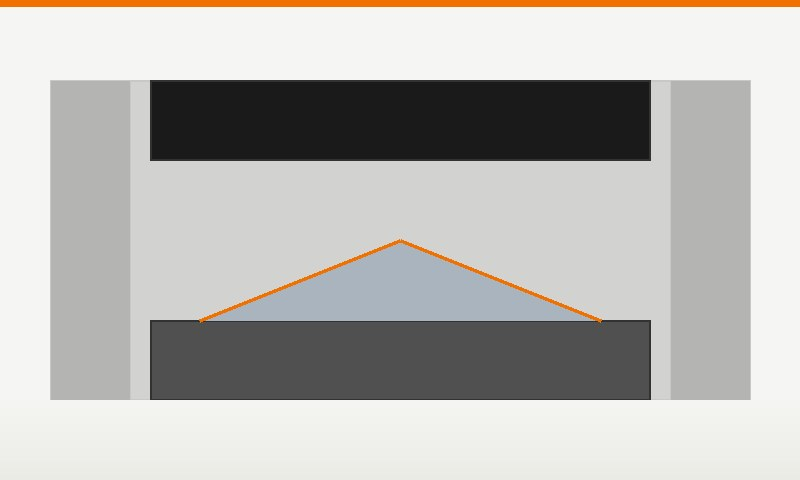
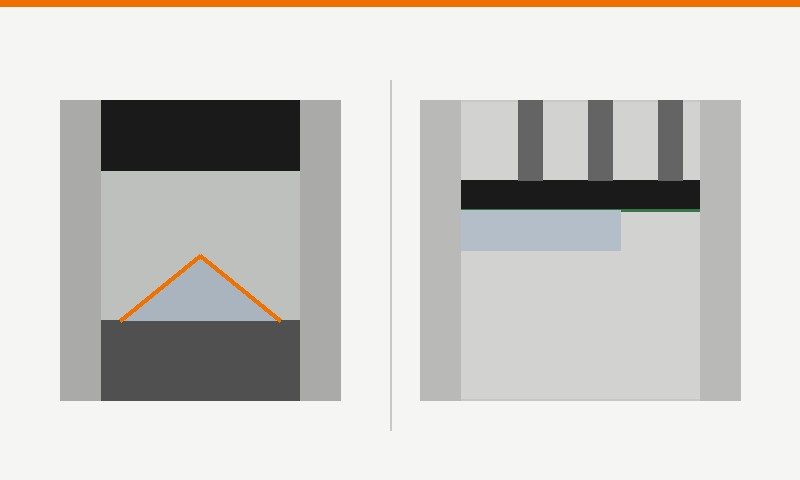
Catalogo: 8 nuove categorie con illustrazioni aggiornate

diff --git a/index.html b/index.html
@@ -204,11 +204,11 @@
           </div>
           <div class="product-card-body">
           <h3>Presse Piegatrici e Cesoie</h3>
-          <p>Presse piegatrici idrauliche CNC e tradizionali per la piegatura della lamiera con precisione e ripetibilità, adatte a officine e carpenterie di ogni dimensione.</p>
+          <p>Presse piegatrici idrauliche CNC e tradizionali per la piegatura della lamiera, cesoie a ghigliottina e universali per il taglio preciso di acciaio, inox e alluminio.</p>
           <ul>
             <li>Presse piegatrici CNC</li>
+            <li>Cesoie a ghigliottina idrauliche</li>
             <li>Pannellatrici</li>
-            <li>Piegatrici universali</li>
           </ul>
           <a href="#contatti" class="product-link">Richiedi informazioni <i class="fa-solid fa-arrow-right"></i></a>
           </div>
@@ -216,15 +216,15 @@
 
         <div class="product-card" data-aos="fade-up" data-aos-delay="100">
           <div class="product-img-wrap">
-            <img src="img/prodotti/cesoia.jpg" alt="Cesoie per Lamiera" />
+            <img src="img/prodotti/saldatura-robot.jpg" alt="Impianti di saldatura manuali e robotizzati" />
           </div>
           <div class="product-card-body">
-          <h3>Cesoie per Lamiera</h3>
-          <p>Cesoie a ghigliottina idrauliche e cesoie universali idrauliche per il taglio preciso di lamiere in acciaio, inox e alluminio. Nuovi modelli anche CNC.</p>
+          <h3>Impianti di saldatura manuali e robotizzati</h3>
+          <p>Sistemi di saldatura MIG/MAG, TIG e plasma, tavoli di saldatura modulari e isole robotizzate per la saldatura automatizzata in produzione.</p>
           <ul>
-            <li>Cesoie a ghigliottina idrauliche</li>
-            <li>Cesoie universali idrauliche</li>
-            <li>Segatrici a nastro e circolari</li>
+            <li>Saldatrici MIG/MAG/TIG</li>
+            <li>Tavoli e posizionatori</li>
+            <li>Celle robotizzate di saldatura</li>
           </ul>
           <a href="#contatti" class="product-link">Richiedi informazioni <i class="fa-solid fa-arrow-right"></i></a>
           </div>
@@ -232,15 +232,15 @@
 
         <div class="product-card" data-aos="fade-up" data-aos-delay="150">
           <div class="product-img-wrap">
-            <img src="img/prodotti/curvatubi.jpg" alt="Curvatubi & Curvaprofile" />
+            <img src="img/prodotti/curvatrice.jpg" alt="Macchine curvatrici" />
           </div>
           <div class="product-card-body">
-          <h3>Curvatubi &amp; Curvaprofile</h3>
-          <p>Macchine per la curvatura e deformazione di tubi, barre e profili metallici. Rivenditore autorizzato Ercolina®, il marchio Made in Italy leader mondiale nel settore dal 1973.</p>
+          <h3>Macchine curvatrici: Calandra per lamiera e Profilati</h3>
+          <p>Calandre a 3 e 4 rulli per la formatura di lamiere in cilindri e coni, e profilatrici per la curvatura di profili, tubi e barre metalliche.</p>
           <ul>
-            <li>Curvatubi CNC</li>
-            <li>Curvaprofile a rulli</li>
-            <li>Arrotondatrici</li>
+            <li>Calandre a 3 e 4 rulli CNC</li>
+            <li>Curvaprofile e arrotondatrici</li>
+            <li>Curvatubi (Ercolina®)</li>
           </ul>
           <a href="#contatti" class="product-link">Richiedi informazioni <i class="fa-solid fa-arrow-right"></i></a>
           </div>
@@ -248,15 +248,15 @@
 
         <div class="product-card" data-aos="fade-up" data-aos-delay="200">
           <div class="product-img-wrap">
-            <img src="img/prodotti/punzonatrice.jpg" alt="Tranciatrici & Punzonatrici" />
+            <img src="img/prodotti/punzonatrice.jpg" alt="Punzonatrici e Tranciatrici" />
           </div>
           <div class="product-card-body">
-          <h3>Tranciatrici &amp; Punzonatrici</h3>
-          <p>Tranciatrici, punzonatrici idrauliche e combinate punzone-cesoia per la realizzazione di fori, intagli e sagome su lamiera piana.</p>
+          <h3>Punzonatrici e Tranciatrici</h3>
+          <p>Punzonatrici idrauliche e combinate punzone-cesoia per la realizzazione di fori, intagli e sagome su lamiera piana, con soluzioni manuali e a controllo CNC.</p>
           <ul>
-            <li>Punzonatrici idrauliche</li>
+            <li>Punzonatrici idrauliche CNC</li>
             <li>Combinate punch-shear</li>
-            <li>Centri CNC</li>
+            <li>Tranciatrici a lama</li>
           </ul>
           <a href="#contatti" class="product-link">Richiedi informazioni <i class="fa-solid fa-arrow-right"></i></a>
           </div>
@@ -264,15 +264,15 @@
 
         <div class="product-card" data-aos="fade-up" data-aos-delay="250">
           <div class="product-img-wrap">
-            <img src="img/prodotti/saldatura.jpg" alt="Saldatrici & Taglio" />
+            <img src="img/prodotti/taglio-termico.jpg" alt="Macchine a taglio termico" />
           </div>
           <div class="product-card-body">
-          <h3>Saldatrici &amp; Taglio</h3>
-          <p>Sistemi di saldatura MIG/MAG, TIG, plasma e laser. Tavoli di saldatura, posizionatori e automazioni per la saldatura.</p>
+          <h3>Macchine a taglio termico: Laser, Plasma e Ossitaglio</h3>
+          <p>Sistemi di taglio termico per lamiere e profilati metallici: taglio laser in fibra ad alta velocità, plasma CNC e ossitaglio per spessori elevati.</p>
           <ul>
-            <li>Saldatrici MIG/MAG/TIG</li>
-            <li>Taglio plasma e laser</li>
-            <li>Posizionatori</li>
+            <li>Taglio laser in fibra CNC</li>
+            <li>Taglio plasma CNC</li>
+            <li>Ossitaglio automatico</li>
           </ul>
           <a href="#contatti" class="product-link">Richiedi informazioni <i class="fa-solid fa-arrow-right"></i></a>
           </div>
@@ -280,15 +280,15 @@
 
         <div class="product-card" data-aos="fade-up" data-aos-delay="300">
           <div class="product-img-wrap">
-            <img src="img/prodotti/calandra.jpg" alt="Calandre" />
+            <img src="img/prodotti/isole-robotizzate.jpg" alt="Isole robotizzate" />
           </div>
           <div class="product-card-body">
-          <h3>Calandre</h3>
-          <p>Calandre a 3 e 4 rulli per la formatura di cilindri, coni e forme curve su lamiera, tubi e profili. Modelli manuali, idraulici e CNC.</p>
+          <h3>Isole robotizzate</h3>
+          <p>Celle di lavoro automatizzate con robot industriali per saldatura, manipolazione, assemblaggio e lavorazione di componenti metallici in serie.</p>
           <ul>
-            <li>Calandre a 3 rulli</li>
-            <li>Calandre a 4 rulli CNC</li>
-            <li>Calandre per profili</li>
+            <li>Robot di saldatura</li>
+            <li>Robot di manipolazione</li>
+            <li>Celle di assemblaggio</li>
           </ul>
           <a href="#contatti" class="product-link">Richiedi informazioni <i class="fa-solid fa-arrow-right"></i></a>
           </div>
@@ -296,15 +296,15 @@
 
         <div class="product-card" data-aos="fade-up" data-aos-delay="100">
           <div class="product-img-wrap">
-            <img src="img/prodotti/pressa-idraulica.jpg" alt="Profilatrici & Pressa" />
+            <img src="img/prodotti/waterjet.jpg" alt="Macchine Waterjet" />
           </div>
           <div class="product-card-body">
-          <h3>Profilatrici &amp; Pressa</h3>
-          <p>Presse idrauliche, eccentriche e profilatrici a freddo per la formatura di profili speciali in acciaio e alluminio.</p>
+          <h3>Macchine Waterjet</h3>
+          <p>Sistemi di taglio ad acqua ad alta pressione per il taglio di metalli, pietra, vetro e materiali compositi senza alterazioni termiche del materiale.</p>
           <ul>
-            <li>Presse idrauliche</li>
-            <li>Profilatrici a rulli</li>
-            <li>Presse eccentriche</li>
+            <li>Waterjet CNC 2D e 3D</li>
+            <li>Taglio a getto d'acqua puro</li>
+            <li>Taglio con abrasivo</li>
           </ul>
           <a href="#contatti" class="product-link">Richiedi informazioni <i class="fa-solid fa-arrow-right"></i></a>
           </div>
@@ -312,15 +312,15 @@
 
         <div class="product-card" data-aos="fade-up" data-aos-delay="150">
           <div class="product-img-wrap">
-            <img src="img/prodotti/tornio.jpg" alt="Macchine per Officina" />
+            <img src="img/prodotti/officina.jpg" alt="Officine Meccaniche" />
           </div>
           <div class="product-card-body">
-          <h3>Macchine per Officina</h3>
-          <p>Torni paralleli e CNC, fresatrici, foratrici e trapani a colonna per officine meccaniche. Macchine selezionate tra i migliori costruttori per affidabilità e durabilità.</p>
+          <h3>Officine Meccaniche</h3>
+          <p>Torni paralleli e CNC, fresatrici, foratrici e rettificatrici per officine meccaniche. Macchine selezionate tra i migliori costruttori per affidabilità e durabilità.</p>
           <ul>
             <li>Torni paralleli e CNC</li>
-            <li>Fresatrici e foratrici</li>
-            <li>Trapani a colonna</li>
+            <li>Fresatrici e centri di lavoro</li>
+            <li>Rettificatrici e foratrici</li>
           </ul>
           <a href="#contatti" class="product-link">Richiedi informazioni <i class="fa-solid fa-arrow-right"></i></a>
           </div>
